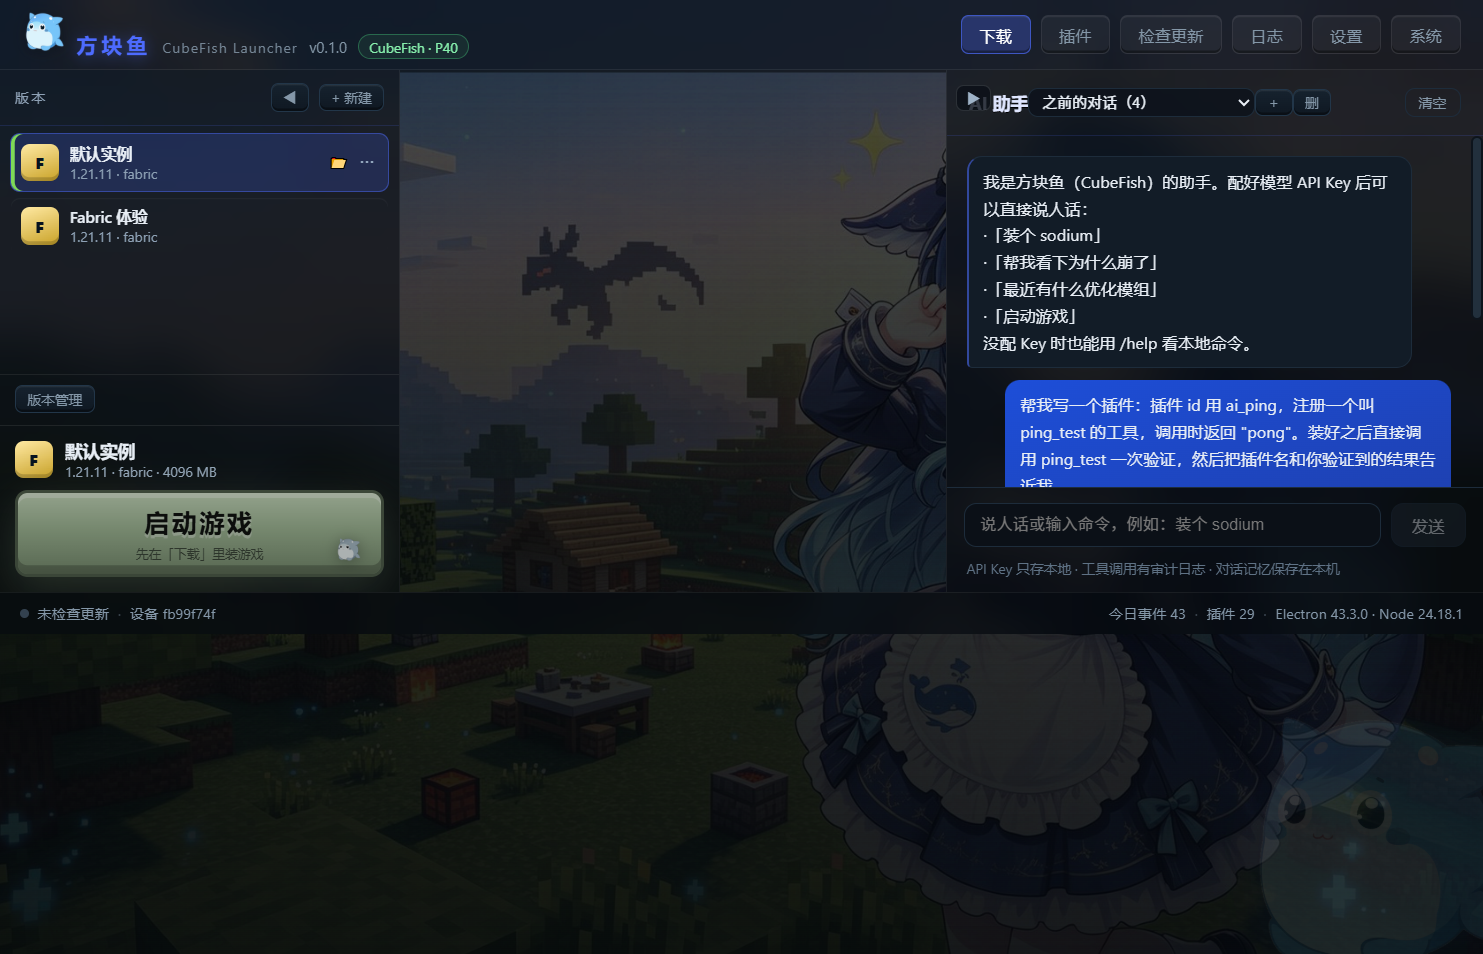
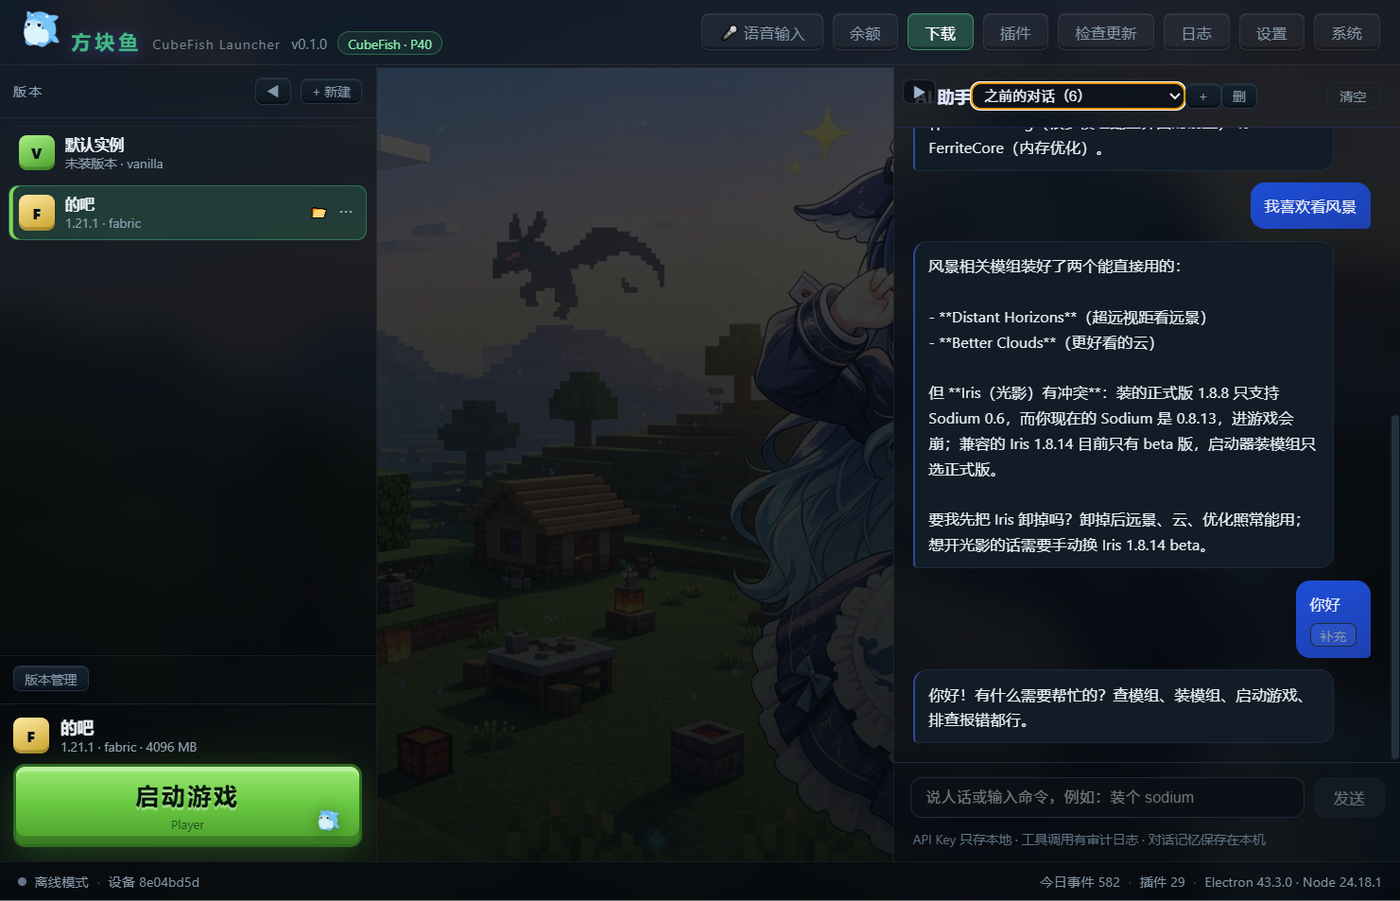
README: 换成真实界面截图（下载中心 + AI 助手）

diff --git a/README.md b/README.md
@@ -9,17 +9,18 @@
 
 ## 它和别的启动器有什么不一样
 
-| 常见启动器 | 方块鱼 |
-|---|---|
-| 报错了让你自己看日志 | AI 读日志、定位原因、**直接修** |
-| 模组版本冲突只能手动换 | `fix_mod_conflict` 一步换到兼容版本 |
-| 没有的功能只能等作者更新 | AI **自己写插件**补能力，当场安装生效 |
-| 插件只能注册命令 | 插件可以注册 AI 工具、聊天命令、**顶栏按钮** |
-| 聊天机器人只会聊天 | 40+ 工具，真的能操作启动器 |
+| 常见启动器        | 方块鱼                         |
+| ------------ | --------------------------- |
+| 报错了让你自己看日志   | AI 读日志、定位原因、**直接修**         |
+| 模组版本冲突只能手动换  | `fix_mod_conflict` 一步换到兼容版本 |
+| 没有的功能只能等作者更新 | AI **自己写插件**补能力，当场安装生效      |
+| 插件只能注册命令     | 插件可以注册 AI 工具、聊天命令、**顶栏按钮**  |
+| 聊天机器人只会聊天    | 40+ 工具，真的能操作启动器             |
 
 ## 功能
 
 **AI 助手（核心）**
+
 - 自然语言操作：装模组、看崩溃、调设置、启动游戏
 - 实时显示「正在调用什么工具」，可随时**停止**
 - 多对话（可新建/切换/删除）、**补充上一条**消息
@@ -28,6 +29,7 @@
 - 一键盘「源码回滚」：AI 改坏了能一键恢复
 
 **启动器本体**
+
 - 实例隔离（每个实例独立 mods / 存档 / 配置，可关）
 - 下载中心：Modrinth + CurseForge 双源、分页、逐文件进度
 - 整合包（`.mrpack` / CurseForge）一键安装
@@ -40,9 +42,11 @@
 
 ## 截图
 
-| 下载中心 | 插件 / AI 能力 |
-|---|---|
-| ![下载中心](docs/screenshots/download.png) | ![插件](docs/screenshots/plugins.png) |
+**下载中心：双源搜索、一键安装、管理已装模组**
+![下载中心](docs/screenshots/download.png)
+
+**AI 助手：实时读日志、诊断冲突、给方案（右侧面板）**
+![AI 助手](docs/screenshots/ai.png)
 
 ## 快速开始
 
